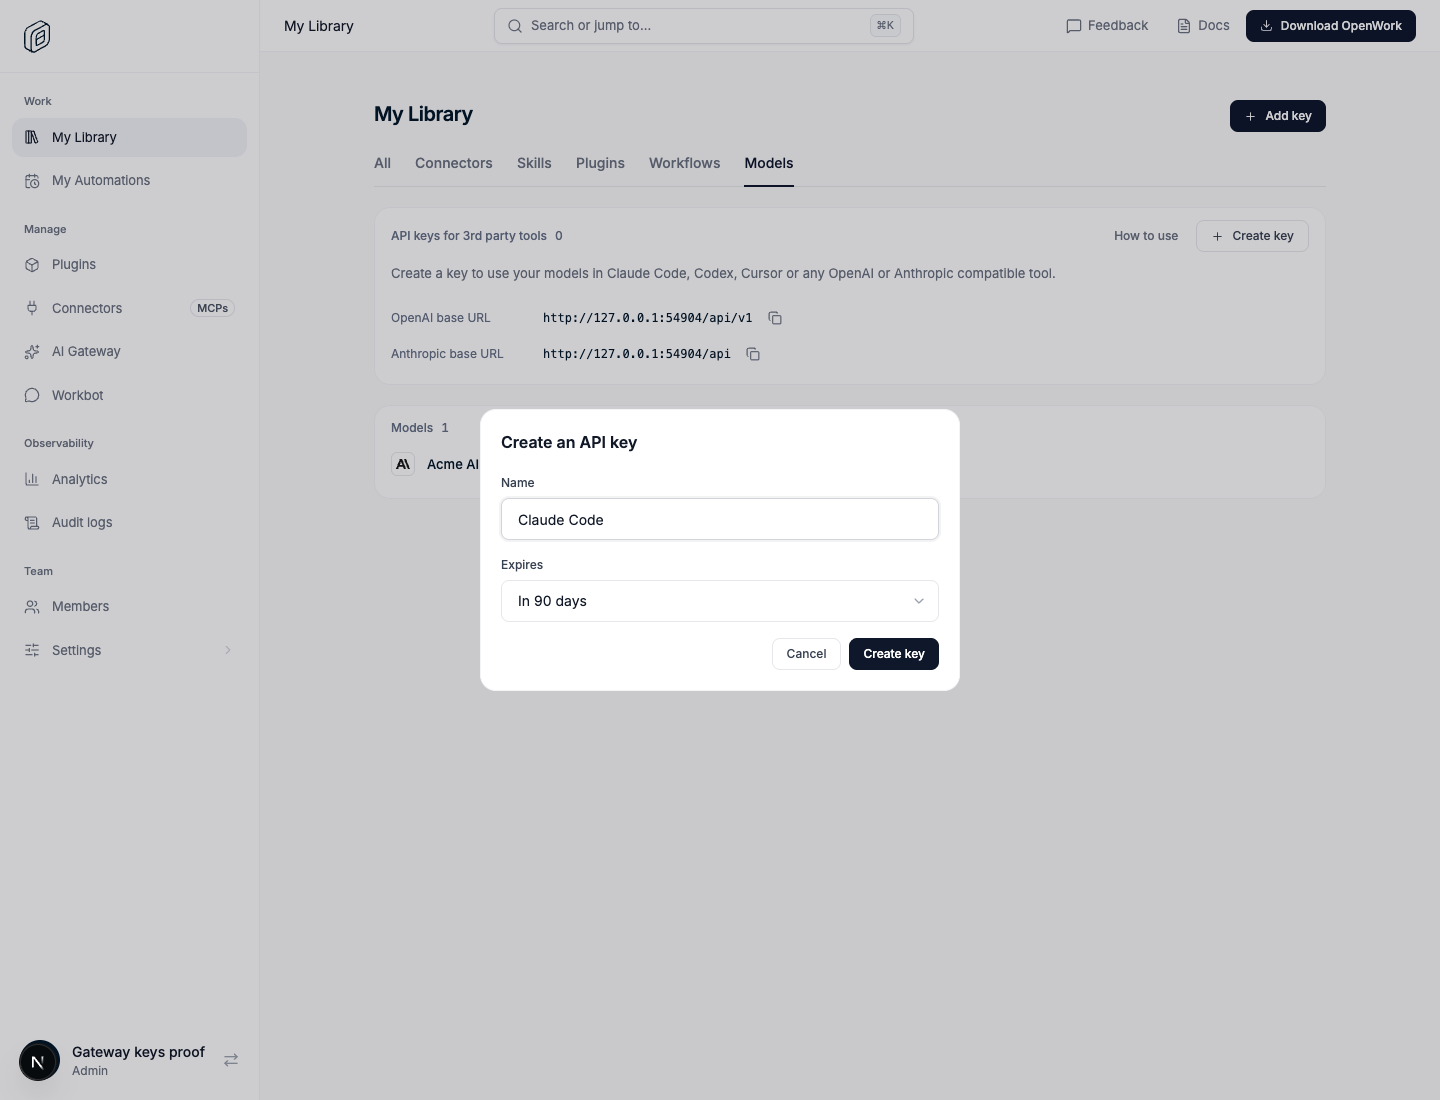
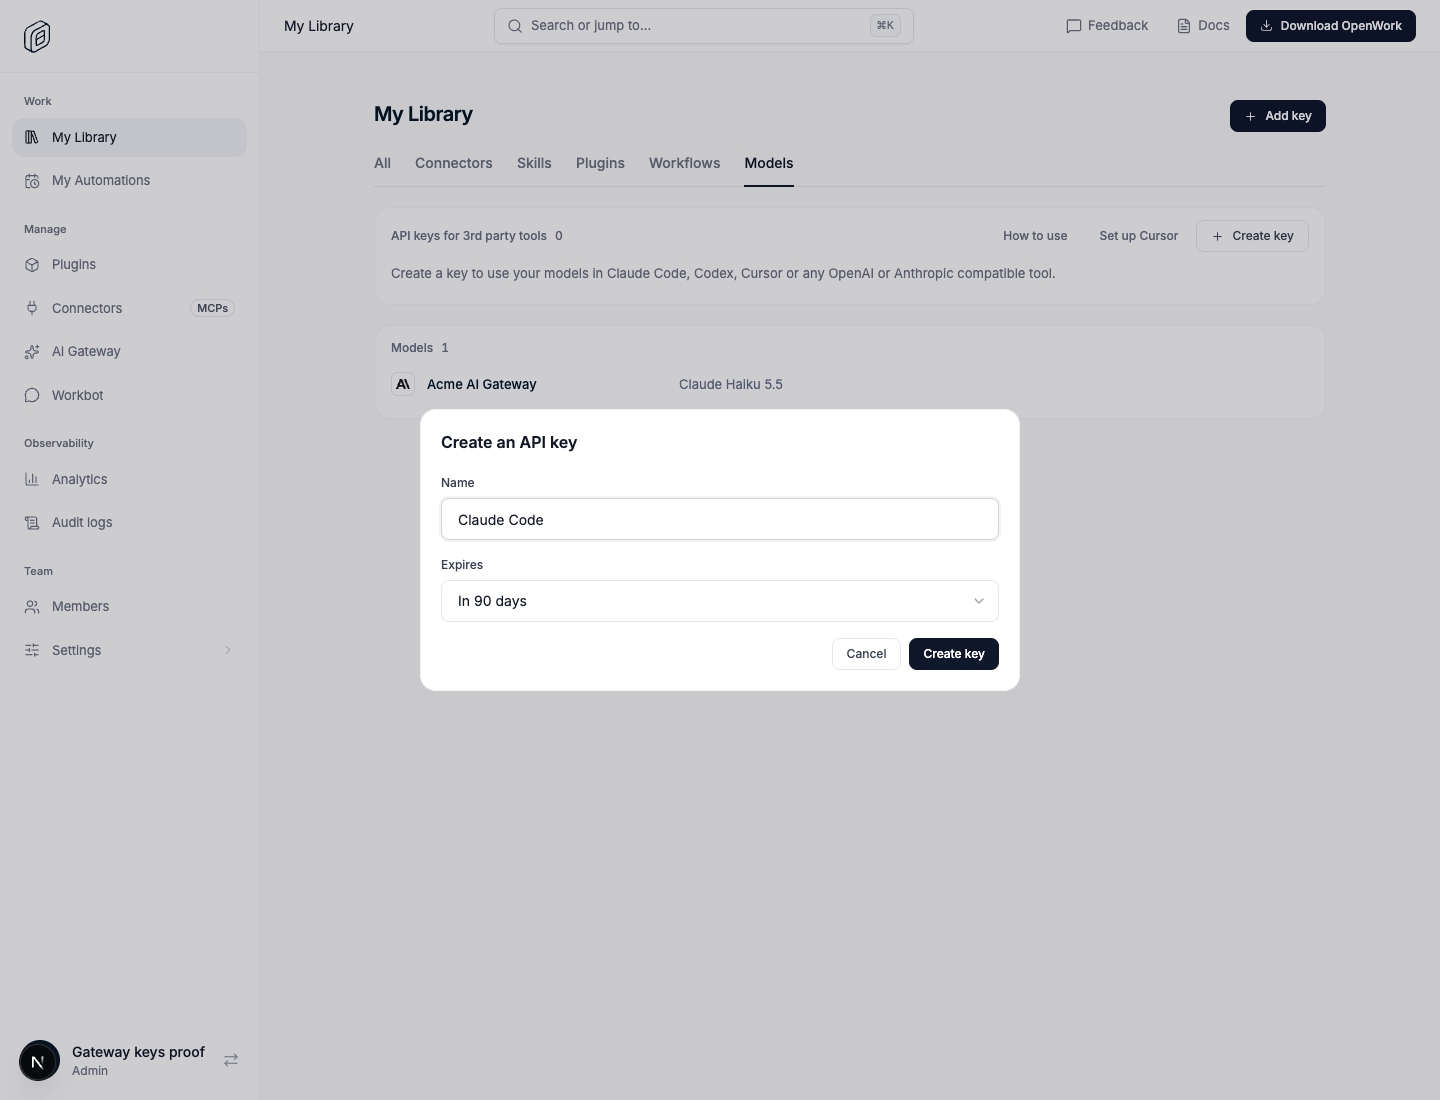
refactor(gateway): fold Cursor and tool setup into gatewayMemberApiKeys
Drop the separate gatewayCursorSetup flag. Start using this key, Set up from a
key's menu, Set up Cursor, and the Gateway's /api/v1/cursor endpoint now follow
gatewayMemberApiKeys, so the API keys section never lists raw base URLs.

diff --git a/ee/apps/den-web/app/(den)/dashboard/_components/member-gateway-api-keys-section.tsx b/ee/apps/den-web/app/(den)/dashboard/_components/member-gateway-api-keys-section.tsx
@@ -15,7 +15,6 @@ import { useEffect, useState, type FormEvent, type ReactNode } from "react";
 import { DenButton, buttonVariants } from "../../_components/ui/button";
 import { DenInput } from "../../_components/ui/input";
 import { DenSelect } from "../../_components/ui/select";
-import { orgFeatureEnabled } from "../../_lib/den-org";
 import { useOrgDashboard } from "../_providers/org-dashboard-provider";
 import { getCursorSetupRoute } from "./cursor-setup-data";
 import { BackButton, GatewayToolPicker, GatewayToolSteps, gatewayToolName, type GatewayToolId } from "./gateway-tool-setup";
@@ -42,8 +41,7 @@ import {
 export function MemberGatewayApiKeysSection() {
   const keys = useMyGatewayApiKeys(true);
   const revoke = useRevokeGatewayApiKey("mine");
-  const { orgSlug, orgContext } = useOrgDashboard();
-  const cursorSetup = orgFeatureEnabled(orgContext, "gatewayCursorSetup");
+  const { orgSlug } = useOrgDashboard();
   const [creating, setCreating] = useState(false);
   /** The key "Set up" was chosen for: the tool choice again, without the key, which can't be shown twice. */
   const [settingUp, setSettingUp] = useState<GatewayApiKey | null>(null);
@@ -79,11 +77,9 @@ export function MemberGatewayApiKeysSection() {
             <a href={GATEWAY_API_KEYS_DOCS_URL} target="_blank" rel="noreferrer" className={buttonVariants({ variant: "ghost", size: "sm" })} data-testid="gateway-api-keys-docs">
               How to use
             </a>
-            {cursorSetup ? (
-              <DenButton size="sm" variant="ghost" href={getCursorSetupRoute(orgSlug)} data-testid="gateway-api-keys-cursor-setup">
-                Set up Cursor
-              </DenButton>
-            ) : null}
+            <DenButton size="sm" variant="ghost" href={getCursorSetupRoute(orgSlug)} data-testid="gateway-api-keys-cursor-setup">
+              Set up Cursor
+            </DenButton>
             {enabled ? (
               <DenButton size="sm" variant="secondary" icon={Plus} onClick={() => setCreating(true)} data-testid="gateway-api-keys-create">
                 Create key
@@ -125,7 +121,7 @@ export function MemberGatewayApiKeysSection() {
                 <span className="flex justify-end opacity-0 transition-opacity duration-150 group-hover:opacity-100 group-focus-within:opacity-100 has-[[data-popup-open]]:opacity-100 [@media(hover:none)]:opacity-100">
                   <ItemMenu
                     label={`Actions for ${apiKey.name}`}
-                    entries={[...(cursorSetup ? [{ label: "Set up", onSelect: () => setSettingUp(apiKey) }] : []), {
+                    entries={[{ label: "Set up", onSelect: () => setSettingUp(apiKey) }, {
                       label: "Revoke",
                       destructive: true,
                       confirm: {
@@ -142,33 +138,12 @@ export function MemberGatewayApiKeysSection() {
           </div>
         )}
 
-        {/* With tool setup (feature `gatewayCursorSetup`) the URLs live in each tool's steps. */}
-        {cursorSetup ? null : <div className="flex flex-col pt-1">
-          {baseUrls(baseUrl).map((entry) => (
-            <div key={entry.label} className="flex min-h-9 items-center gap-2 px-2 text-[12px] text-[var(--dls-text-secondary)]">
-              <span className="w-36 shrink-0">{entry.label}</span>
-              <code className="min-w-0 truncate font-mono text-[12px] text-[var(--dls-text-primary)]" data-testid={`gateway-api-keys-base-url-${entry.id}`}>{entry.url}</code>
-              <CopyButton value={entry.url} label={`Copy ${entry.label}`} />
-            </div>
-          ))}
-        </div>}
       </section>
 
-      <CreateGatewayApiKeyDialog open={creating} baseUrl={baseUrl} toolSetup={cursorSetup} onClose={() => setCreating(false)} />
+      <CreateGatewayApiKeyDialog open={creating} baseUrl={baseUrl} onClose={() => setCreating(false)} />
       <SetUpGatewayApiKeyDialog apiKey={settingUp} baseUrl={baseUrl} onClose={() => setSettingUp(null)} />
     </LibraryCompactSurface>
   );
-}
-
-/**
- * Where tools point: OpenAI compatible tools take the URL with /v1 (they add /chat/completions or
- * /responses); Anthropic tools take it without (they add /v1/messages).
- */
-function baseUrls(baseUrl: string) {
-  return [
-    { id: "openai", label: "OpenAI base URL", url: baseUrl },
-    { id: "anthropic", label: "Anthropic base URL", url: baseUrl.replace(/\/v1\/?$/, "") },
-  ];
 }
 
 function CopyButton({ value, label }: { value: string; label: string }) {
@@ -194,7 +169,7 @@ function CopyButton({ value, label }: { value: string; label: string }) {
   );
 }
 
-function CreateGatewayApiKeyDialog({ open, baseUrl, toolSetup, onClose }: { open: boolean; baseUrl: string; toolSetup: boolean; onClose: () => void }) {
+function CreateGatewayApiKeyDialog({ open, baseUrl, onClose }: { open: boolean; baseUrl: string; onClose: () => void }) {
   return (
     <Dialog.Root open={open} onOpenChange={(next) => { if (!next) onClose(); }}>
       <Dialog.Portal>
@@ -202,17 +177,17 @@ function CreateGatewayApiKeyDialog({ open, baseUrl, toolSetup, onClose }: { open
         <Dialog.Popup
           data-testid="gateway-api-key-dialog"
           data-ph-no-capture
-          className={`fixed left-1/2 top-1/2 z-50 max-h-[calc(100dvh-2rem)] w-[calc(100%-2rem)] -translate-x-1/2 -translate-y-1/2 overflow-y-auto rounded-2xl border border-gray-100 bg-white p-5 outline-none ${toolSetup ? "max-w-[600px]" : "max-w-[480px]"}`}
+          className="fixed left-1/2 top-1/2 z-50 max-h-[calc(100dvh-2rem)] w-[calc(100%-2rem)] max-w-[600px] -translate-x-1/2 -translate-y-1/2 overflow-y-auto rounded-2xl border border-gray-100 bg-white p-5 outline-none"
         >
           {/* Mounted only while open: a closed dialog forgets the key it showed. */}
-          {open ? <CreateGatewayApiKeyForm baseUrl={baseUrl} toolSetup={toolSetup} onClose={onClose} /> : null}
+          {open ? <CreateGatewayApiKeyForm baseUrl={baseUrl} onClose={onClose} /> : null}
         </Dialog.Popup>
       </Dialog.Portal>
     </Dialog.Root>
   );
 }
 
-function CreateGatewayApiKeyForm({ baseUrl, toolSetup, onClose }: { baseUrl: string; toolSetup: boolean; onClose: () => void }) {
+function CreateGatewayApiKeyForm({ baseUrl, onClose }: { baseUrl: string; onClose: () => void }) {
   const create = useCreateGatewayApiKey();
   const [name, setName] = useState("");
   const [expiryDays, setExpiryDays] = useState<number | null>(DEFAULT_GATEWAY_API_KEY_EXPIRY);
@@ -229,8 +204,8 @@ function CreateGatewayApiKeyForm({ baseUrl, toolSetup, onClose }: { baseUrl: str
     }
   }
 
-  // Feature `gatewayCursorSetup`: "Start using this key", a tool, then that tool's steps.
-  if (created && toolSetup) {
+  // "Start using this key", a tool, then that tool's steps.
+  if (created) {
     return (
       <GatewayToolFlow
         title="Start using this key"
@@ -248,39 +223,6 @@ function CreateGatewayApiKeyForm({ baseUrl, toolSetup, onClose }: { baseUrl: str
         baseUrl={baseUrl}
         onClose={onClose}
       />
-    );
-  }
-
-  if (created) {
-    return (
-      <>
-        <Dialog.Title className="text-[16px] font-semibold leading-6 text-gray-900">{created.apiKey.name} is ready</Dialog.Title>
-        <p className="mt-1 text-[13px] text-gray-500" data-testid="gateway-api-key-created-expiry">{formatExpiry(created.apiKey.expiresAt)}</p>
-        <div className="mt-4 flex flex-col gap-3">
-          <div className="flex flex-col gap-1.5">
-            <span className="text-[12px] font-medium text-gray-700">API key, shown once</span>
-            <div className="flex items-center gap-2 rounded-lg border border-gray-200 bg-gray-50 px-3 py-2">
-              <code className="min-w-0 flex-1 break-all font-mono text-[12px] leading-5 text-gray-900" data-testid="gateway-api-key-secret">{created.key}</code>
-              <CopyButton value={created.key} label="Copy API key" />
-            </div>
-          </div>
-          {baseUrls(baseUrl).map((entry) => (
-            <div key={entry.label} className="flex flex-col gap-1.5">
-              <span className="text-[12px] font-medium text-gray-700">{entry.label}</span>
-              <div className="flex items-center gap-2 rounded-lg border border-gray-200 bg-gray-50 px-3 py-2">
-                <code className="min-w-0 flex-1 break-all font-mono text-[12px] leading-5 text-gray-900">{entry.url}</code>
-                <CopyButton value={entry.url} label={`Copy ${entry.label}`} />
-              </div>
-            </div>
-          ))}
-        </div>
-        <div className="mt-5 flex items-center justify-between gap-2">
-          <a href={GATEWAY_API_KEYS_DOCS_URL} target="_blank" rel="noreferrer" className="text-[12px] text-gray-600 underline underline-offset-4 hover:text-gray-900">
-            How to use
-          </a>
-          <DenButton size="sm" onClick={onClose} data-testid="gateway-api-key-done">Done</DenButton>
-        </div>
-      </>
     );
   }
 
@@ -327,7 +269,7 @@ function CreateGatewayApiKeyForm({ baseUrl, toolSetup, onClose }: { baseUrl: str
 }
 
 /**
- * A tool, then its steps (feature `gatewayCursorSetup`). Right after creation `apiKey` is the key; from
+ * A tool, then its steps. Right after creation `apiKey` is the key; from
  * "Set up" it is null, since a key is shown once, and the steps leave a place for it.
  */
 function GatewayToolFlow({ title, subtitle, keyBlock, apiKey, baseUrl, onClose }: {

diff --git a/evals/proofs/gateway-member-api-keys.proof.test.ts b/evals/proofs/gateway-member-api-keys.proof.test.ts
@@ -54,13 +54,14 @@ test("an owner lets members use AI Gateway from 3rd party tools, creates their o
     await user.screenshot();
   });
 
-  await step("the owner names the key Claude Code, keeps the 90 day expiry, and sees the key once", async () => {
+  await step("the owner names the key Claude Code, keeps the 90 day expiry, and sees the key once under Start using this key", async () => {
     await user.see({ testId: "gateway-api-key-dialog" }, { timeoutMs: 15_000 });
     await user.type({ role: "textbox", label: "Name" }, "Claude Code");
     await user.see({ role: "button", label: "Expires" }, { text: "In 90 days" });
     await user.screenshot();
     await user.click({ testId: "gateway-api-key-submit" });
-    await user.see({ testId: "gateway-api-key-secret" }, { timeoutMs: 30_000 });
+    await user.see({ testId: "gateway-api-key-start" }, { timeoutMs: 30_000 });
+    await user.see({ testId: "gateway-api-key-secret" });
     key = (await probe.dom('[data-testid="gateway-api-key-secret"]')).elements[0]?.text ?? "";
     const mine = await probe.api(world.den.admin, "/v1/org/ai-gateway/api-keys/mine");
     const saved = isRecord(mine.body) && Array.isArray(mine.body.apiKeys) ? mine.body.apiKeys.filter(isRecord)[0] : undefined;
@@ -73,10 +74,13 @@ test("an owner lets members use AI Gateway from 3rd party tools, creates their o
   });
 
   await step("with only that key, a tool lists the owner's models and gets a reply from one through the AI Gateway", async () => {
+    // The base URLs are in each tool's steps; Another tool shows both.
+    await user.click({ testId: "gateway-tool-other" });
+    await user.see({ testId: "gateway-tool-other" }, { timeoutMs: 15_000 });
+    const openai = (await probe.dom('[data-testid="gateway-tool-other"] [data-testid="gateway-api-keys-base-url-openai"]')).elements[0]?.text ?? "";
+    const anthropic = (await probe.dom('[data-testid="gateway-tool-other"] [data-testid="gateway-api-keys-base-url-anthropic"]')).elements[0]?.text ?? "";
     await user.click({ testId: "gateway-api-key-done" });
     await user.see({ text: "Claude Code" }, { timeoutMs: 15_000 });
-    const openai = (await probe.dom('[data-testid="gateway-api-keys-base-url-openai"]')).elements[0]?.text ?? "";
-    const anthropic = (await probe.dom('[data-testid="gateway-api-keys-base-url-anthropic"]')).elements[0]?.text ?? "";
     expect(openai).toBe(`${world.gatewayUrl}/api/v1`);
     expect(anthropic).toBe(`${world.gatewayUrl}/api`);
     const models = await world.callGateway(key, "/api/v1/models");

diff --git a/packages/features/src/registry.ts b/packages/features/src/registry.ts
@@ -183,23 +183,12 @@ export const FEATURES = defineFeatures({
   },
   gatewayMemberApiKeys: {
     label: "AI Gateway: API keys for 3rd party tools",
-    description: "Admins allow members, in AI Gateway › API Keys, to create their own AI Gateway API keys and use the Gateway's models from 3rd party tools and harnesses. Members manage their keys in Library › Models; admins see and revoke every key on the same tab.",
+    description: "Admins allow members, in AI Gateway › API Keys, to create their own AI Gateway API keys and use the Gateway's models from 3rd party tools and harnesses. After creating a key (or from a key's Set up), members pick a tool (Cursor, OpenAI Codex, Claude Code, another tool) and get its steps with their key and models filled in; Cursor reaches every model through /api/v1/cursor. Members manage their keys in Library › Models; admins see and revoke every key on the same tab.",
     category: "models",
     added: "2026-11-09",
     since: "2026-11",
     author: "OmarMcAdam",
     docs: "docs/features/gateway-member-api-keys/README.md",
-    deployments: everywhere,
-    default: false,
-  },
-  gatewayCursorSetup: {
-    label: "AI Gateway: set up Cursor and other tools",
-    description: "After creating an AI Gateway API key, members pick a tool (Cursor, OpenAI Codex, Claude Code, another tool) and get its setup steps with their key and models filled in; Library › Models also gets a Set up Cursor page. The Gateway serves Cursor's model names at /api/v1/cursor through OpenAI Chat Completions and Responses, whatever the model's provider is.",
-    category: "models",
-    added: "2026-11-10",
-    since: "2026-11",
-    author: "OmarMcAdam",
-    docs: "docs/features/gateway-cursor-setup/README.md",
     deployments: everywhere,
     default: false,
   },

diff --git a/evals/worlds/gateway-cursor-setup.ts b/evals/worlds/gateway-cursor-setup.ts
@@ -5,7 +5,7 @@ import { isRecord } from "./library.ts";
 import { enableOrganizationCapabilities } from "./organization-capabilities.ts";
 
 /**
- * Cursor setup (`gatewayCursorSetup`): a real Den (cloud) and AI Gateway with one Anthropic-protocol
+ * Cursor setup (part of `gatewayMemberApiKeys`): a real Den (cloud) and AI Gateway with one Anthropic-protocol
  * provider whose only upstream is the deterministic Acme mock, every member allowed its model, member
  * API keys and Cursor setup on for the seeded organization, 3rd party tools allowed, and the owner
  * signed in on My Library › Models.
@@ -20,7 +20,7 @@ export async function gatewayCursorSetupWorld(seed: Seed) {
     if (!den.database) throw new Error("The Cursor setup world needs its disposable local database.");
     await startAcmeGateway(stack, den.database.url, { baseUrl: gateway.baseUrl, env });
     const provider = await seedAcmeGateway(den.admin, upstream);
-    const organizationId = await enableOrganizationCapabilities(seed, den.admin, { gatewayMemberApiKeys: true, gatewayCursorSetup: true });
+    const organizationId = await enableOrganizationCapabilities(seed, den.admin, { gatewayMemberApiKeys: true });
     const allowed = await seed.api(den.admin, "/v1/org/ai-gateway-settings", { method: "PUT", body: JSON.stringify({ memberApiKeys: true }) });
     if (!allowed.response.ok) throw new Error(`Allowing 3rd party tools failed: HTTP ${allowed.response.status} ${allowed.text.slice(0, 300)}`);
     const web = await seed.web({ den, signedInAs: den.admin, startPath: "/dashboard/library?show=models", headless: true, viewport: { width: 1440, height: 1100 } });

diff --git a/ee/apps/gateway/src/keys.ts b/ee/apps/gateway/src/keys.ts
@@ -122,12 +122,15 @@ async function memberApiKeysAllowed(organizationId: string): Promise<boolean> {
 
 const cursorPolicyCache = new Map<string, { expires: number; enabled: boolean }>()
 
-/** Whether the Cursor endpoint (feature `gatewayCursorSetup`) is on for the organization. Cached like the key policy. */
+/**
+ * Whether the Cursor endpoint is on for the organization: it is part of member API keys (feature
+ * `gatewayMemberApiKeys`), cached like the key policy.
+ */
 export async function cursorEndpointEnabled(organizationId: string): Promise<boolean> {
   const now = Date.now()
   const cached = cursorPolicyCache.get(organizationId)
   if (cached && cached.expires > now) return cached.enabled
-  const enabled = (await readFeatures(db, organizationId, env.features)).gatewayCursorSetup
+  const enabled = (await readFeatures(db, organizationId, env.features)).gatewayMemberApiKeys
   if (cursorPolicyCache.size > 5_000) for (const [key, entry] of cursorPolicyCache) if (entry.expires <= now) cursorPolicyCache.delete(key)
   cursorPolicyCache.set(organizationId, { expires: now + API_KEY_POLICY_CACHE_MS, enabled })
   return enabled

diff --git a/ee/apps/gateway/src/gateway.ts b/ee/apps/gateway/src/gateway.ts
@@ -105,7 +105,7 @@ export type GatewayDependencies = {
   autoRouterReasoning: ReasoningStore
   /** Whether a TypeSafe key is configured; without one Smart is off. */
   autoRouterRoutingConfigured: boolean
-  /** Whether the Cursor endpoint (feature `gatewayCursorSetup`) is on for an organization. */
+  /** Whether the Cursor endpoint (feature `gatewayMemberApiKeys`) is on for an organization. */
   cursorEnabled: (organizationId: string) => Promise<boolean>
 }
 
@@ -1254,7 +1254,7 @@ export function registerGatewayRoutes(api: Hono<GatewayEnv>, input: GatewayRoute
     c.header("cache-control", "no-store")
     return c.json(listGatewayModels(await dependencies.loadMemberGatewayAccess(identity)))
   })
-  // Cursor (feature `gatewayCursorSetup`): every model as Chat Completions under names a person can type.
+  // Cursor (feature `gatewayMemberApiKeys`): every model as Chat Completions under names a person can type.
   const cursorOff = () => gatewayError(404, "not_found", "The Cursor endpoint is not available for this organization.")
   api.get(cursorModelsPath, async (c) => {
     const identity = c.get("inference")

diff --git a/ee/apps/den-web/app/(den)/dashboard/_components/gateway-tool-setup.tsx b/ee/apps/den-web/app/(den)/dashboard/_components/gateway-tool-setup.tsx
@@ -11,7 +11,7 @@ import { claudeCodeModels, codexModels, useGatewayToolModels, type GatewayToolMo
 import { GATEWAY_API_KEYS_DOCS_URL } from "./gateway-api-keys-data";
 
 /**
- * Setting up a 3rd party tool with an AI Gateway API key (feature `gatewayCursorSetup`): a choice of
+ * Setting up a 3rd party tool with an AI Gateway API key (feature `gatewayMemberApiKeys`): a choice of
  * tools, then what to paste where for the one picked. Used right after a key is created, while it can
  * still be shown, and on Set up Cursor without a key.
  */
@@ -68,7 +68,7 @@ export function CopyButton({ value, label }: { value: string; label: string }) {
   async function copy() {
     try {
       await navigator.clipboard.writeText(value);
-      markFeatureUsed("gatewayCursorSetup");
+      markFeatureUsed("gatewayMemberApiKeys");
       setCopied(true);
       window.setTimeout(() => setCopied(false), 1500);
     } catch {

diff --git a/ee/apps/den-web/app/(den)/dashboard/_components/cursor-setup-screen.tsx b/ee/apps/den-web/app/(den)/dashboard/_components/cursor-setup-screen.tsx
@@ -10,13 +10,13 @@ import { ItemHeader, ItemPage } from "./item-header";
 import { ItemPanel } from "./item-list";
 
 /**
- * Library › Models › Set up Cursor (feature `gatewayCursorSetup`): what to paste into Cursor's
+ * Library › Models › Set up Cursor (feature `gatewayMemberApiKeys`): what to paste into Cursor's
  * settings, with every model's Cursor name to copy. The key itself is only shown when it is created,
  * so this page links to creating one.
  */
 export function CursorSetupScreen() {
   const { orgSlug, orgContext } = useOrgDashboard();
-  const available = orgFeatureEnabled(orgContext, "gatewayMemberApiKeys") && orgFeatureEnabled(orgContext, "gatewayCursorSetup");
+  const available = orgFeatureEnabled(orgContext, "gatewayMemberApiKeys");
   const keys = useMyGatewayApiKeys(available);
   const back = { href: `${getLibraryRoute(orgSlug)}?show=models`, label: "My Library" };
 

diff --git a/ee/apps/gateway/src/cursor-responses.ts b/ee/apps/gateway/src/cursor-responses.ts
@@ -1,4 +1,4 @@
-// OpenAI Responses API for Cursor (feature `gatewayCursorSetup`). Cursor's OpenAI override can
+// OpenAI Responses API for Cursor (feature `gatewayMemberApiKeys`). Cursor's OpenAI override can
 // send a model through Responses instead of Chat Completions. Every Gateway translator speaks Chat
 // Completions on the client side, so a Responses request is read as a chat request, sent to the
 // model's own protocol as usual, and the Chat Completions answer is written back as a Responses

diff --git a/ee/apps/den-web/app/(den)/dashboard/_components/cursor-setup-data.ts b/ee/apps/den-web/app/(den)/dashboard/_components/cursor-setup-data.ts
@@ -9,7 +9,7 @@ import { ORG_SCOPE_HEADER } from "../../_lib/org-scope";
 import { useOrgDashboard } from "../_providers/org-dashboard-provider";
 
 /**
- * Setting up a 3rd party tool with an AI Gateway API key (feature `gatewayCursorSetup`): the models
+ * Setting up a 3rd party tool with an AI Gateway API key (feature `gatewayMemberApiKeys`): the models
  * the viewer can use right now, one entry per model however many groups and credential sets grant
  * it, as the AI Gateway lists them.
  */

diff --git a/packages/types/src/den/gateway-cursor.ts b/packages/types/src/den/gateway-cursor.ts
@@ -1,7 +1,7 @@
 import { AUTO_ROUTER_THINKING_LEVELS, type AutoRouterThinkingLevel } from "@openwork/types/den/auto-router";
 
 /**
- * Cursor through the AI Gateway (feature `gatewayCursorSetup`).
+ * Cursor through the AI Gateway (feature `gatewayMemberApiKeys`).
  *
  * Cursor reaches other models only by overriding its OpenAI API key and base URL, and each model is
  * added by typing one string that is both its id and the name Cursor shows. A Gateway model id

diff --git a/ee/apps/gateway/src/cursor.ts b/ee/apps/gateway/src/cursor.ts
@@ -1,4 +1,4 @@
-// Cursor through the AI Gateway (feature `gatewayCursorSetup`). Cursor's only way to another
+// Cursor through the AI Gateway (feature `gatewayMemberApiKeys`). Cursor's only way to another
 // provider is its OpenAI key and base URL override, so every model, whatever its provider speaks,
 // has to answer as OpenAI Chat Completions under one base URL, by a name a person can type.
 //
